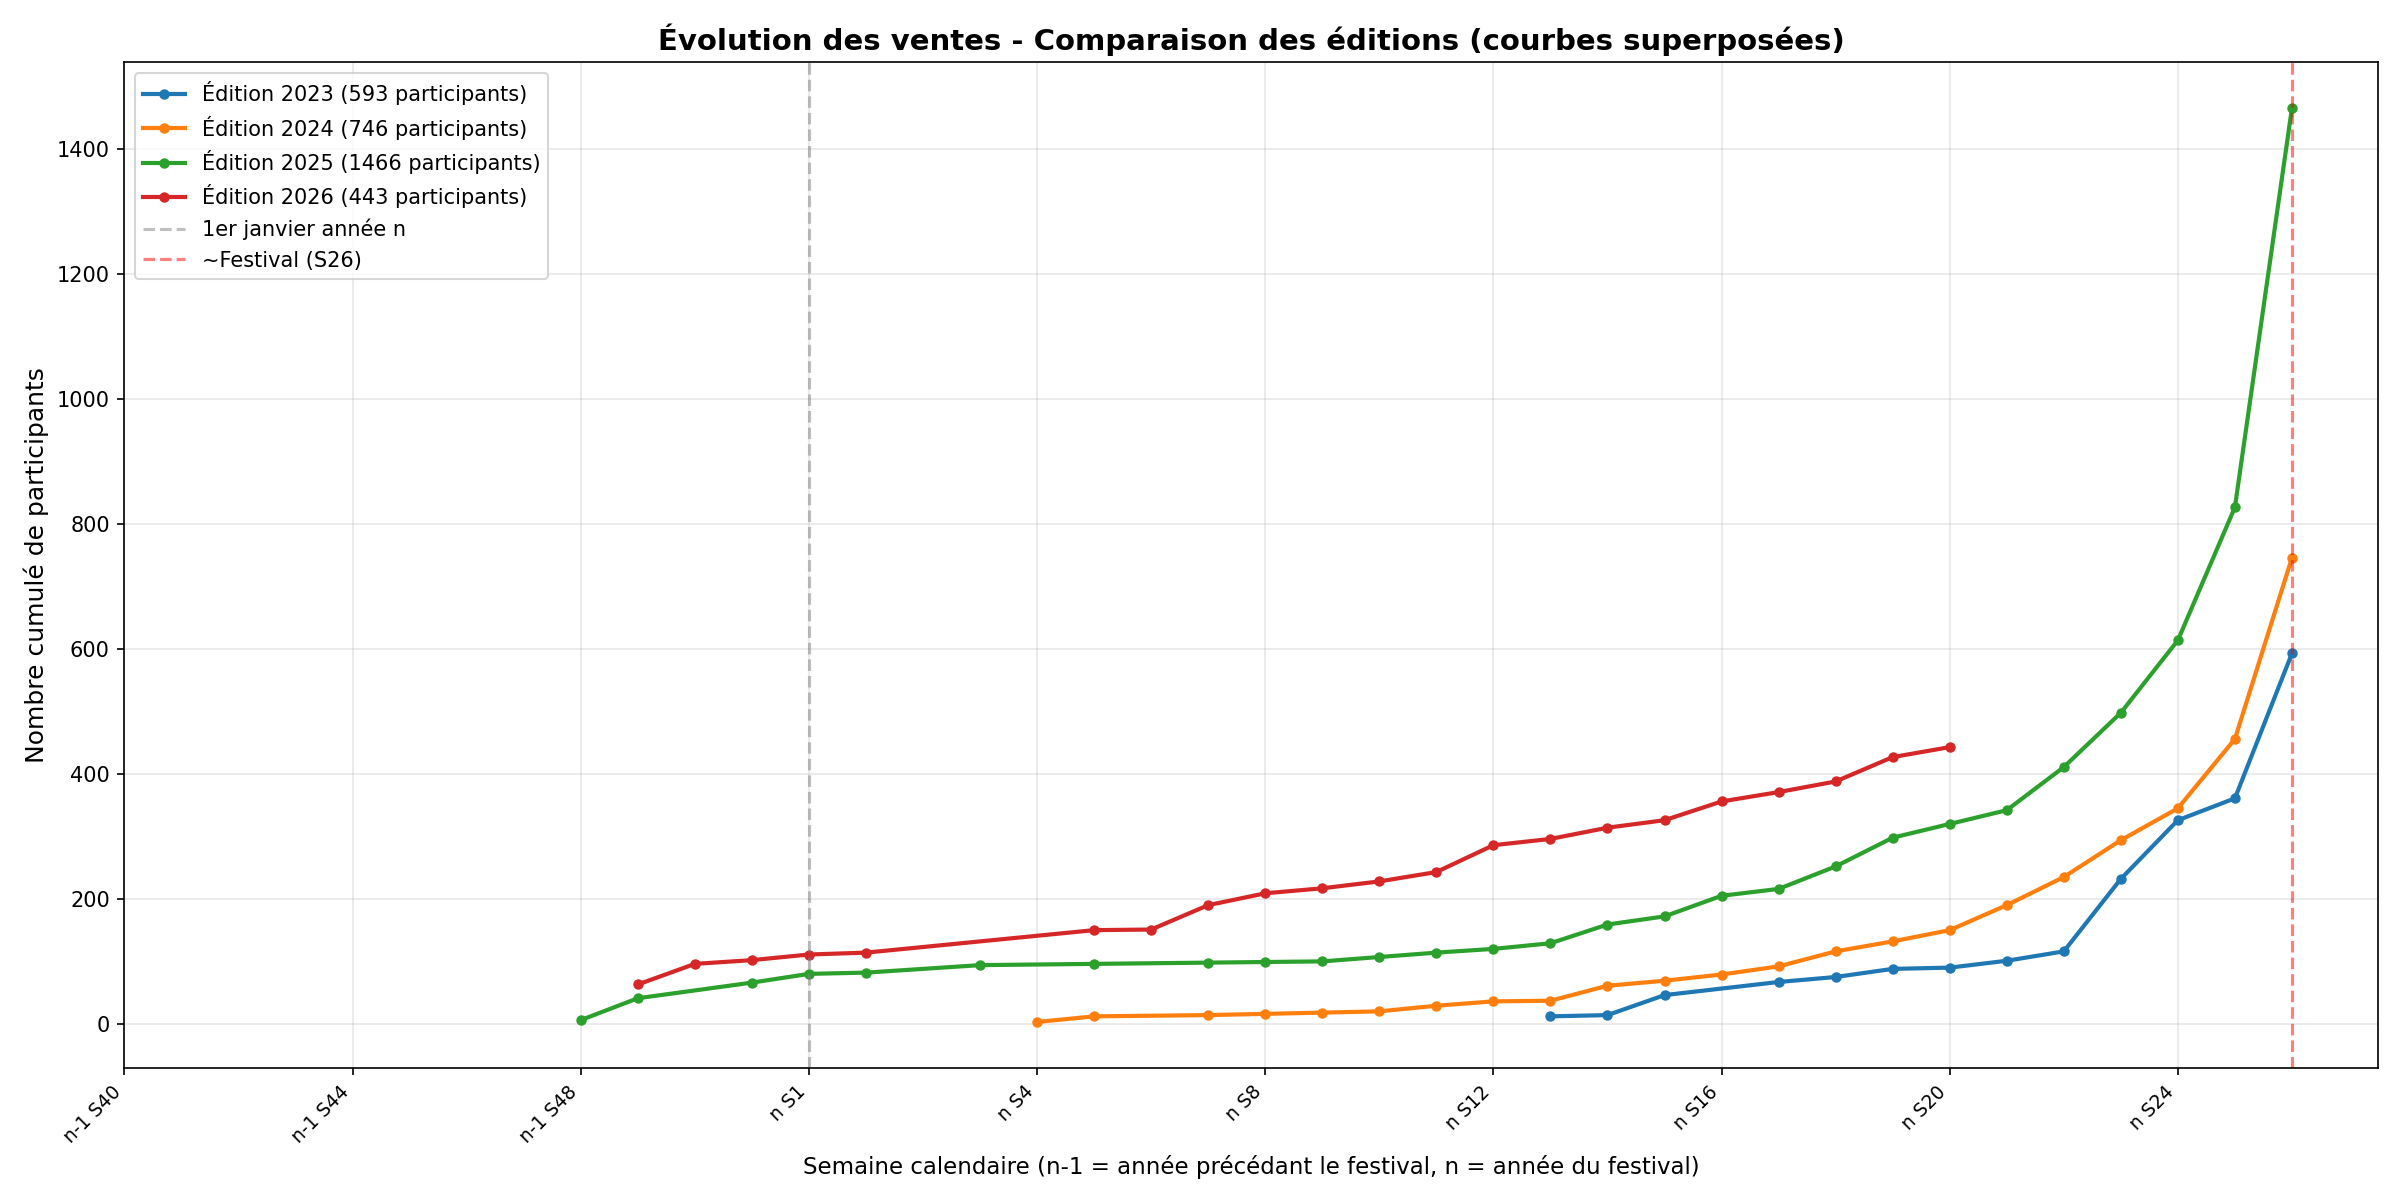
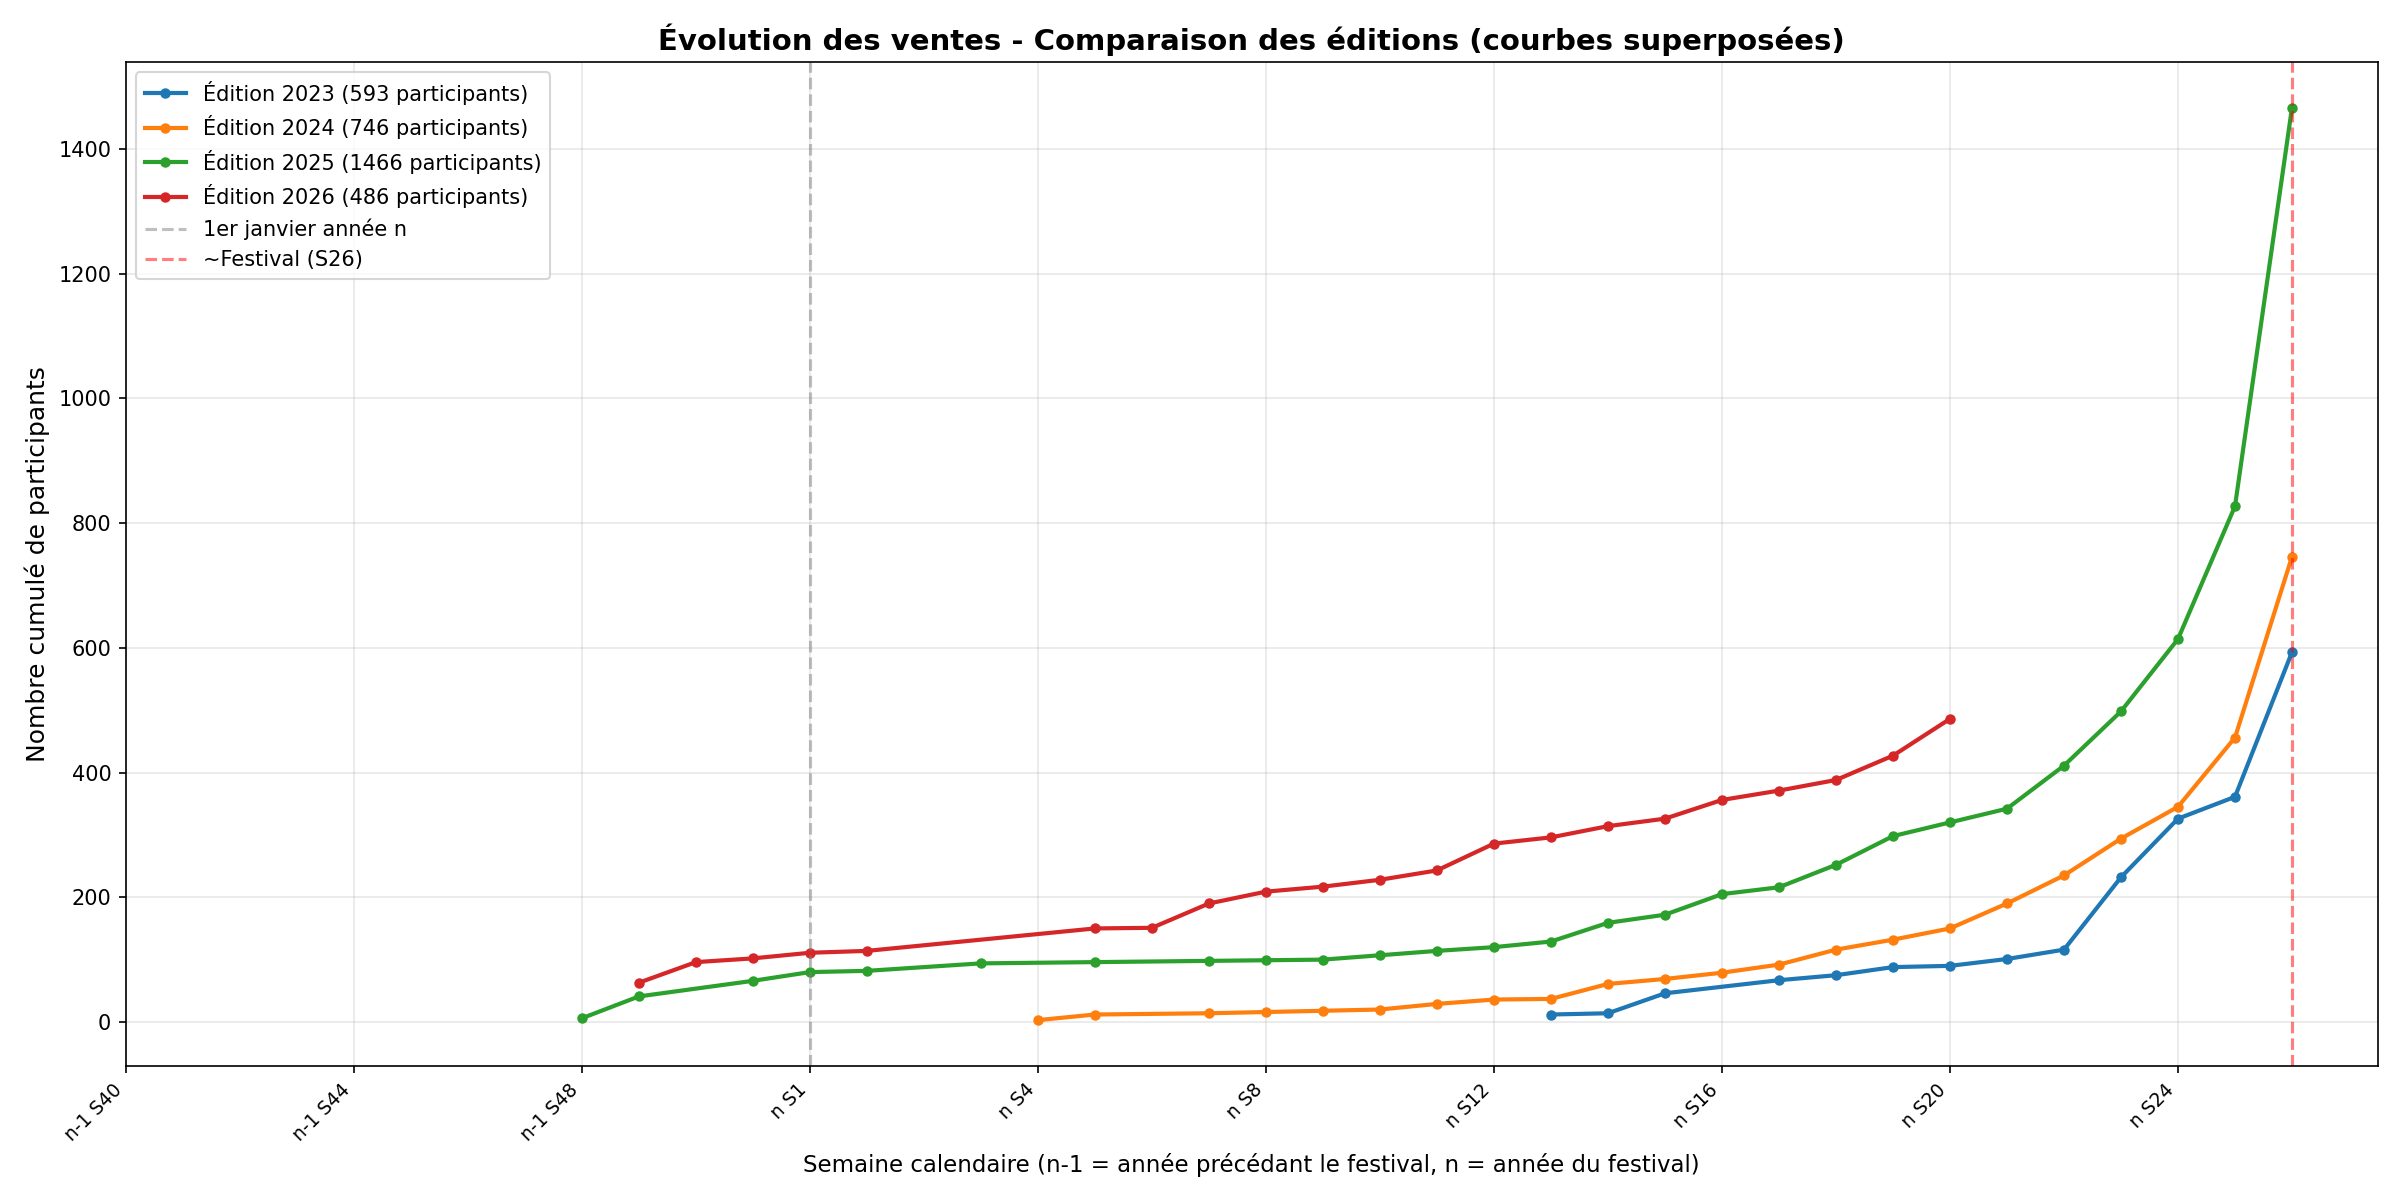
cjd

diff --git a/components/CjdOffrePriveIframe.tsx b/components/CjdOffrePriveIframe.tsx
@@ -1,0 +1,36 @@
+'use client';
+
+import { useCallback, useRef } from 'react';
+
+const IFRAME_SRC = '/offre-privee/cjd-mecene.html';
+
+export default function CjdOffrePriveIframe() {
+  const ref = useRef<HTMLIFrameElement>(null);
+
+  const resize = useCallback(() => {
+    const iframe = ref.current;
+    if (!iframe) return;
+    try {
+      const doc = iframe.contentWindow?.document;
+      if (!doc?.documentElement) return;
+      const h = Math.max(
+        doc.documentElement.scrollHeight,
+        doc.body?.scrollHeight ?? 0
+      );
+      if (h > 0) iframe.style.height = `${h + 24}px`;
+    } catch {
+      iframe.style.height = '5600px';
+    }
+  }, []);
+
+  return (
+    <iframe
+      ref={ref}
+      title="Offre mécène CJD Amiens — Barb'n'Rock Festival 2026"
+      src={IFRAME_SRC}
+      onLoad={resize}
+      className="w-full max-w-[100vw] border-0 bg-white block"
+      style={{ minHeight: '600px', height: '5600px' }}
+    />
+  );
+}

diff --git a/app/p/cjd-mecene-26/page.tsx b/app/p/cjd-mecene-26/page.tsx
@@ -1,0 +1,25 @@
+import type { Metadata } from 'next';
+import CjdOffrePriveIframe from '@/components/CjdOffrePriveIframe';
+
+export const metadata: Metadata = {
+  title: 'Offre mécène CJD Amiens (accès privé)',
+  description:
+    "Offre mécène réservée au CJD Amiens — page non référencée dans le menu du site.",
+  robots: { index: false, follow: false },
+  alternates: {
+    canonical: '/p/cjd-mecene-26',
+  },
+};
+
+/**
+ * Page « secrète » : non listée dans la navbar.
+ * URL à partager : /p/cjd-mecene-26
+ * Le HTML statique et les visuels sont servis depuis /offre-privee/
+ */
+export default function CjdMecenePrivePage() {
+  return (
+    <div className="bg-white min-h-screen">
+      <CjdOffrePriveIframe />
+    </div>
+  );
+}

diff --git a/app/admin/benevoles/[id]/VolunteerForm.tsx b/app/admin/benevoles/[id]/VolunteerForm.tsx
@@ -35,6 +35,7 @@ export default function VolunteerForm({ volunteer }: VolunteerFormProps) {
     status: volunteer.status,
     team: volunteer.team || '',
     notes: volunteer.notes || '',
+    email: volunteer.email,
   });
   const [resendAssignment, setResendAssignment] = useState(false);
 
@@ -176,6 +177,20 @@ export default function VolunteerForm({ volunteer }: VolunteerFormProps) {
               )}
             </div>
           )}
+        </div>
+
+        {/* Email */}
+        <div>
+          <label className="block text-sm font-medium text-gray-400 mb-2">
+            Email
+          </label>
+          <input
+            type="email"
+            value={formData.email}
+            onChange={(e) => setFormData({ ...formData, email: e.target.value })}
+            required
+            className="w-full bg-[#0a0a0a] border border-[#333] rounded-lg px-4 py-3 text-white focus:border-[#e53e3e] focus:outline-none"
+          />
         </div>
 
         {/* Notes */}

diff --git a/app/api/admin/volunteers/[id]/route.ts b/app/api/admin/volunteers/[id]/route.ts
@@ -158,7 +158,7 @@ export async function PATCH(
   }
 
   // Validation des champs autorisés
-  const allowedFields = ['status', 'team', 'notes'];
+  const allowedFields = ['status', 'team', 'notes', 'email'];
   const data: Record<string, unknown> = {};
   
   for (const field of allowedFields) {

diff --git a/private/sales/analyze_sales.py b/private/sales/analyze_sales.py
@@ -15,7 +15,7 @@ FILES = {
     2023: "export-barb-n-rock-festival-association-crepicordienne-pour-la-promotion-de-la-culture-acpc-.csv",
     2024: "export-barb-n-rock-festival-2024-association-crepicordienne-pour-la-promotion-de-la-culture-.csv",
     2025: "export-barb-n-rock-festival-2025-association-crepicordienne-pour-la-promotion-de-la-culture-.csv",
-    2026: "export-barb-n-rock-festival-2026-association-crepicordienne-pour-la-promotion-de-la-culture-acpc-05_12_2025-13_05_2026.xlsx",
+    2026: "export-barb-n-rock-festival-2026-association-crepicordienne-pour-la-promotion-de-la-culture-acpc-05_12_2025-18_05_2026.xlsx",
 }
 
 EXCLUDED_TARIFS = [

diff --git a/private/sales/estimate_final_participants.py b/private/sales/estimate_final_participants.py
@@ -13,7 +13,7 @@ SALES_DIR = Path(__file__).parent
 # Aligné sur analyze_sales.py
 FILES_2024 = "export-barb-n-rock-festival-2024-association-crepicordienne-pour-la-promotion-de-la-culture-.csv"
 FILES_2025 = "export-barb-n-rock-festival-2025-association-crepicordienne-pour-la-promotion-de-la-culture-.csv"
-FILE_2026 = "export-barb-n-rock-festival-2026-association-crepicordienne-pour-la-promotion-de-la-culture-acpc-05_12_2025-13_05_2026.xlsx"
+FILE_2026 = "export-barb-n-rock-festival-2026-association-crepicordienne-pour-la-promotion-de-la-culture-acpc-05_12_2025-18_05_2026.xlsx"
 
 EXCLUDED_TARIFS = [
     "Prévente Cashless",

diff --git a/communication/docs/partenariats/OFFRE-MECENE-CJD-AMIENS.md b/communication/docs/partenariats/OFFRE-MECENE-CJD-AMIENS.md
@@ -1,7 +1,53 @@
 # OFFRE MÉCÈNE CJD AMIENS
 
+> **Page web (lien non listé dans le menu)** : `https://barnrock-festival.fr/p/cjd-mecene-26` — contenu servi depuis `public/offre-privee/`. Après modification du HTML source ou des images dans `communication/docs/partenariats/`, lancer **`npm run sync:offre-cjd`** pour recopier vers `public/`.
+
 > **TARIF EARLY BIRD — Offre valable jusqu'au 31 mai 2026**  
 > Souscrivez avant le 31 mai pour bénéficier du tarif préférentiel.
+
+## Nous sommes ravis de vous accueillir
+
+Toute l'équipe du Barb'n'Rock est **très heureuse** de vous recevoir sur le site du festival pour votre plénière. C'est un moment fort pour nous de croiser des dirigeants engagés de la région, au cœur de notre projet associatif.
+
+### Le festival en images — édition 2025
+
+Quelques photos de **l’édition 2025** pour illustrer l’ambiance sur le terrain :
+
+| | |
+|:---:|:---:|
+| ![Les Garçons Bouchers en scène](assets/edition-2025/garcons-bouchers-olivier-duquenne.png) | ![Public au crépuscule, Lofofora](assets/edition-2025/public-soir-lofofora-david-dauphin.png) |
+| **Les Garçons Bouchers** — © Olivier Duquenne, Diamond Photographies | **Lofofora** — public au crépuscule — © David Dauphin, Dwidou Photography |
+| ![Lofofora sur scène](assets/edition-2025/lofofora-scene-david-dauphin.png) | ![Loco Muerte et public](assets/edition-2025/loco-muerte-crowd-david-dauphin.png) |
+| **Lofofora** — © David Dauphin, Dwidou Photography | **Loco Muerte** & foule — © David Dauphin, Dwidou Photography |
+
+*Ces clichés restent la propriété des photographes ; usage accordé dans le cadre de la communication du festival.*
+
+### Votre accueil le jour J (vendredi 26 juin)
+
+Nous vous attendons **dès le matin** pour un **accueil café / croissants** sur le site du festival, en lien avec votre plénière.
+
+- **Stationnement :** vous pourrez vous garer sur le **parking production**, directement sur l’événement (accès dédié équipes & partenaires, pas le parking grand public).
+- **Repas / Plénière :** accueil à l’**espace Catering** — lieu **réservé aux artistes** pendant le festival, au plus près des équipes et des groupes.
+
+### Et le soir : passez en expérience VIP
+
+Votre **entrée vendredi soir** est déjà incluse. Ce pack mécène vous propose d'**upgrader** cette soirée : espace VIP, coulisses, cashless, invités… pour vivre le concert sous un autre angle, après votre journée de travail.
+
+---
+
+## Programme concerts — vendredi soir
+
+**Ouverture des portes à 18h00**, **premier concert à 19h00**. **Cinq groupes** pour une mise en jambe rock / metal accessible :
+
+| Ordre | Artiste |
+|:-----:|---------|
+| **Tête d’affiche** | **Cachemire** — rock français puissant, riffs et textes qui dépotent ; **le groupe à ne pas manquer** sur cette soirée. **[Voir la vidéo YouTube du groupe](https://www.youtube.com/watch?v=PjQw3HI2LJo)**. |
+| 2 | Psykup |
+| 3 | Kami No Ikari |
+| 4 | Barabbas |
+| 5 | Black Hazard |
+
+![Cachemire — tête d’affiche du vendredi](assets/cachemire-promo-2026.png)
 
 ## Contexte
 
@@ -51,7 +97,11 @@ Cette offre permet à chaque membre d'**upgrader son expérience** en devenant m
 
 Cher(e) membre du CJD,
 
-Suite à votre venue au Barb'n'Rock Festival le **vendredi 26 juin** dans le cadre de la plénière CJD, nous avons le plaisir de vous proposer une **offre mécène exclusive**.
+Nous sommes **ravis de vous accueillir** le **vendredi 26 juin** au Barb'n'Rock pour votre plénière CJD.
+
+**Dès le matin**, un **accueil café / croissants** vous attend sur le site. Vous pourrez **vous garer sur le parking production** (directement sur l’événement). **Repas / Plénière :** accueil à l’**espace Catering** — lieu **réservé aux artistes** pendant le festival, au plus près des équipes et des groupes.
+
+**Le soir**, la scène vous propose notamment **Cachemire** en tête d’affiche (rock français au top) : **[vidéo sur YouTube](https://www.youtube.com/watch?v=PjQw3HI2LJo)**. Portes **18h**, premier concert **19h**. Avec votre place incluse, vous pouvez aussi **passer en expérience VIP** grâce au pack mécène ci-dessous.
 
 ### PACK MÉCÈNE CJD - 250€ (100€ après réduction fiscale)
 
@@ -76,10 +126,9 @@ Transformez votre soirée en expérience VIP :
 
 ### Comment souscrire ?
 
-1. Répondez à cet email avec les informations de votre entreprise
-2. Nous vous envoyons la convention de mécénat
-3. Réglez par virement ou chèque
-4. Vous recevez votre reçu fiscal
+**Contactez-nous** par mail à **[[email redacted]](mailto:[email redacted])**, ou par téléphone : **Luc Pouilly** — [[phone redacted]](tel:[phone redacted]).
+
+Ensuite : nous vous envoyons la **convention de mécénat**, vous réglez par **virement ou chèque**, et vous recevez votre **reçu fiscal**.
 
 **📅 Date limite : 15 juin 2026** pour garantir l'intégration de votre logo sur le site.
 
@@ -144,6 +193,8 @@ L'équipe Barb'n'Rock
 - [ ] Convention de mécénat type (modèle existant à adapter)
 - [ ] Facture/reçu fiscal
 - [ ] Liste des mécènes CJD (pour accueil VIP le jour J)
+- [ ] Accueil matinal : café / croissants + signalétique parking **production**
+- [ ] Déjeuner plénière : espace **Catering** / repas des artistes (réservations, accès)
 - [ ] Bracelets VIP dédiés
 - [ ] Créditer 30€ cashless sur les bracelets
 